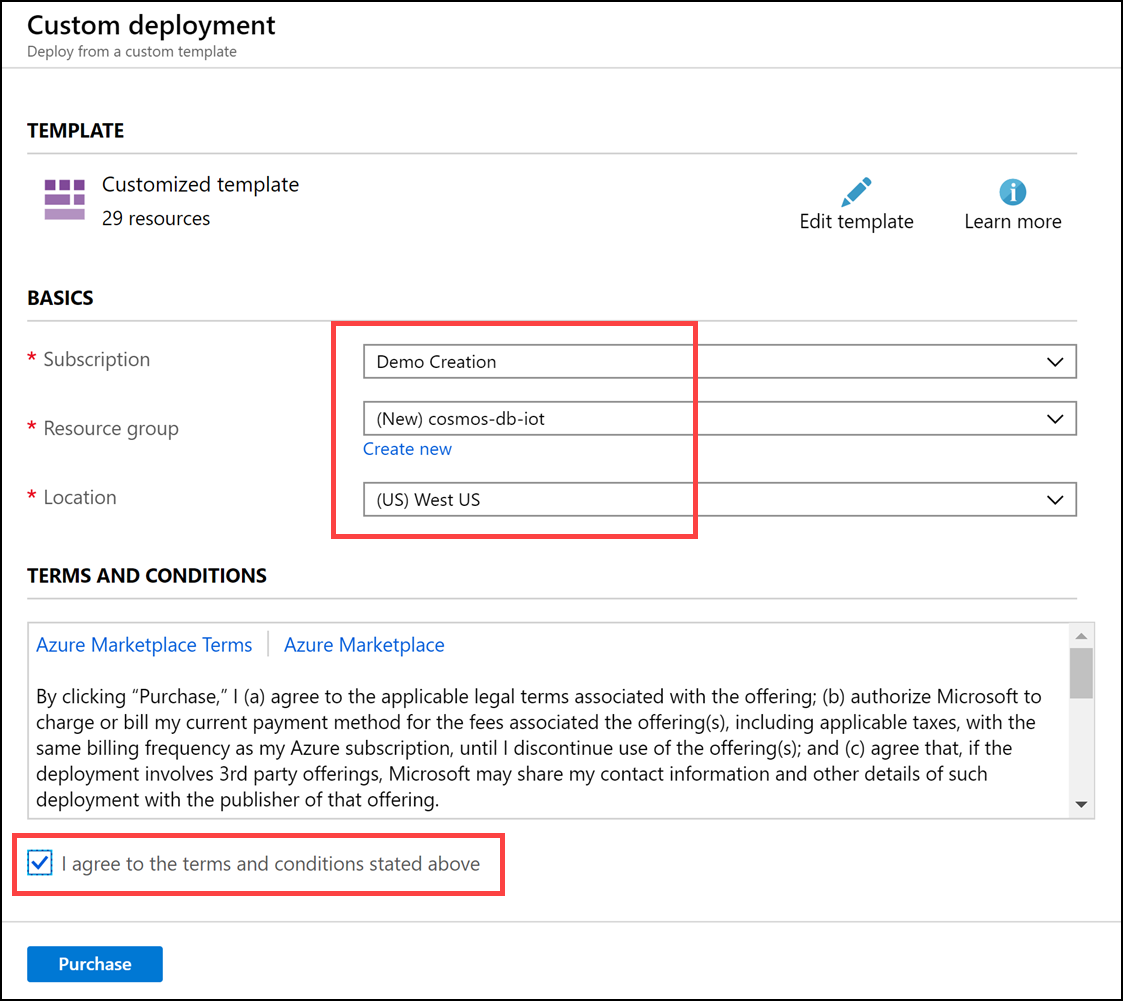
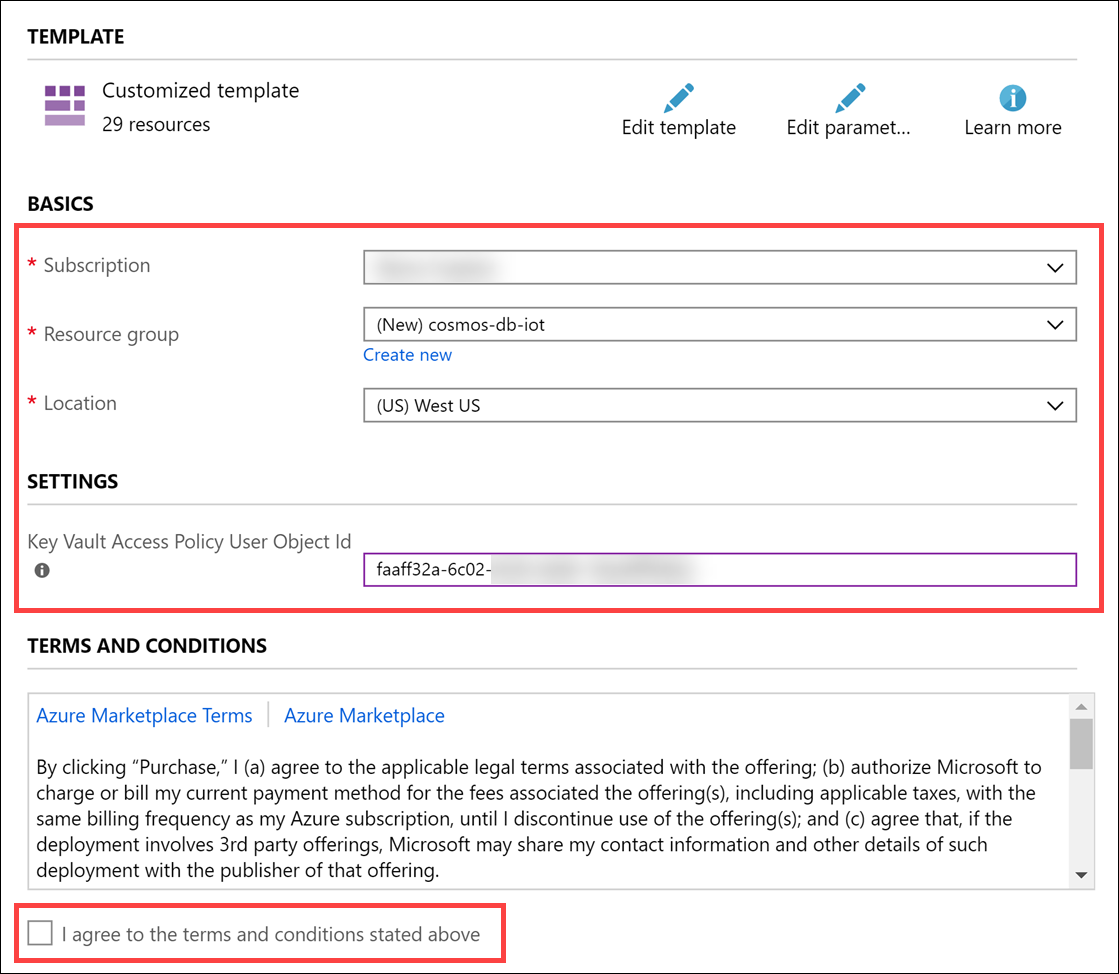
Update lab to add the user to the Key Vault access policies

diff --git a/IoT/Before the HOL - Cosmos DB scenario-based labs - IoT.md b/IoT/Before the HOL - Cosmos DB scenario-based labs - IoT.md
@@ -57,38 +57,51 @@ Download a starter project that includes a vehicle simulator, Azure Function App
 
 In this task, you will deploy the infrastructure for this demo using an ARM Template deployment.
 
-1. In the [Azure portal](https://portal.azure.com), select **+ Create a resource**. Enter **template** in the search box, then select **Template deployment (deploy using custom templates)**.
+1. In the [Azure portal](https://portal.azure.com), navigate to **Azure Active Directory** in the left-hand menu, then select **Users** under Manage.
+
+   ![Azure Active Directory blade with Users highlighted](media/deploy-azure-ad-users-link.png 'Azure Active Directory blade with Users highlighted')
+
+2. Select your user from the list with which you logged in to the portal.
+
+   ![All users list with user highlighted](media/deploy-azure-ad-user-list.png 'All users list with user highlighted')
+
+3. On the **User** blade, copy the **Object ID** for this user.
+
+   ![User blade is shown with Object ID highlighted](media/deploy-azure-ad-user-object-id.png 'User blade is shown with Object ID highlighted')
+
+4. In the Azure portal, select **+ Create a resource**. Enter **template** in the search box, then select **Template deployment (deploy using custom templates)**.
 
    ![Create a resource is highlighted, and template is entered in the search box.](media/portal-search-template.png 'New Template Resource')
 
-2. Select **Create** on the Template deployment overview blade.
+5. Select **Create** on the Template deployment overview blade.
 
-3. On the **Custom deployment** pane, select **Build your own template in the editor**.
+6. On the **Custom deployment** pane, select **Build your own template in the editor**.
 
    ![The Build your own template in the editor option is highlighted.](media/portal-custom-deployment-build-own.png 'Custom deployment')
 
-4. On the **Edit template** blade, select the **Load file** button and upload the **labDeploy.json** ARM Template located at `\cosmos-db-scenario-based-labs\IoT\deploy\labDeploy.json`.
+7. On the **Edit template** blade, select the **Load file** button and upload the **labDeploy.json** ARM Template located at `\cosmos-db-scenario-based-labs\IoT\deploy\labDeploy.json`.
 
    ![The load file button is highlighted and the labDeploy.json file is selected](media/portal-custom-deployment-load.png 'Load file')
 
-5. Select **Save**.
+8. Select **Save**.
 
-6. Enter the following values:
+9. Enter the following values:
 
    - Subscription: select the Azure subscription you are using for this lab.
    - Resource group: _if you are using a hosted environment, select the existing `iot` resource group provided for you_; Otherwise, create a new resource group like `cosmos-db-iot`.
    - Location: _it doesn't matter which region is selected, the template will use West US to ensure everything works_
+   - Key Vault Access Policy User Object Id: paste your user account's `Object ID` you copied earlier.
 
-7. Check the **I agree to the terms and conditions stated above** box.
+10. Check the **I agree to the terms and conditions stated above** box.
 
-   ![The fields are completed as shown.](media/portal-template-params.png 'Custom template form')
+    ![The fields are completed as shown.](media/portal-template-params.png 'Custom template form')
 
-8. Select **Purchase**
+11. Select **Purchase**
 
-   After the deployment completes, you can select **Outputs** from the left-hand menu to find the names of your new Azure resources, as well as useful information like connection strings and endpoints.
+    After the deployment completes, you can select **Outputs** from the left-hand menu to find the names of your new Azure resources, as well as useful information like connection strings and endpoints.
 
-   ![The outputs are displayed after the template deployment is completed.](media/portal-deployment-outputs.png 'Microsoft Template - Outputs')
+    ![The outputs are displayed after the template deployment is completed.](media/portal-deployment-outputs.png 'Microsoft Template - Outputs')
 
-   > The template deployment will take a few minutes to complete. Continue with the hands-on lab guide once it completes.
+    > The template deployment will take a few minutes to complete. Continue with the hands-on lab guide once it completes.
 
 You should follow all steps provided _before_ performing the Hands-on lab.
